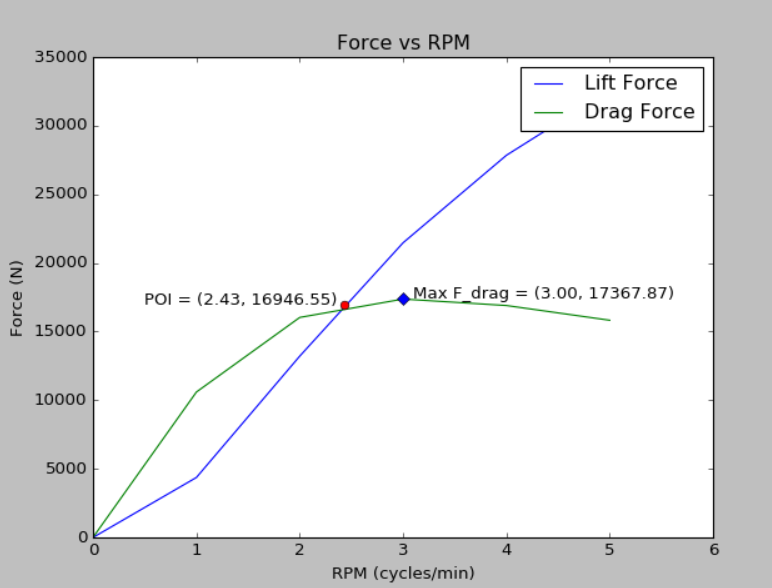
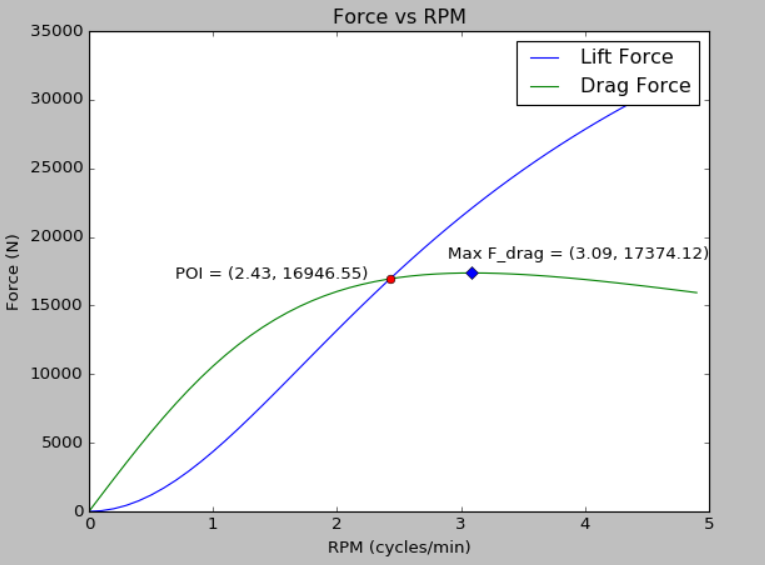
Implemented newton's method

diff --git a/main.py b/main.py
@@ -29,24 +29,41 @@ rpm_to_tan_vel = lambda rpm: tangential_vel(rpm_to_angular_vel(rpm))
 F_lift = lambda rpm: ((3 * mu_0 * m ** 2) / (32 * np.pi * z_0 ** 4)) * (1 - (w / np.sqrt(rpm_to_tan_vel(rpm) ** 2 + w ** 2)))
 F_drag = lambda rpm: (w / rpm_to_tan_vel(rpm)) * F_lift(rpm)
 
-def getPOI(f, g, x0):
-    tolerance = 0.0001
-    h = lambda x: f(x) - g(x)
-    dh = lambda x : (h(x+tolerance) - h(x)) / tolerance
-    x1 = x0 - h(x0)/dh(x0)
+
+def Newton(f, x0, tolerance, derivative=False):
+    if derivative:
+        h = lambda x: (f(x + tolerance) - f(x)) / tolerance
+    else:
+        h = f
+    dh = lambda x: (h(x + tolerance) - h(x)) / tolerance
+    x1 = x0 - h(x0) / dh(x0)
     if h(x1) > tolerance:
-        return getPOI(f, g, x1)
+        return Newton(f, x1, tolerance, derivative)
     else:
         return x1
 
 
-# Compute the x and y coordinates for points on sine and cosine curves
-x = np.arange(0.001, 30)
+def getPOI(f, g):
+    tolerance = 0.0001
+    x0 = 2
+    return Newton(lambda x: f(x) - g(x), x0, tolerance)
+
+
+def getMax(f):
+    tolerance = 0.0001
+    x0 = 3
+    return Newton(f, x0, tolerance, True)
+
+# Compute the x and y coordinates
+START = 0.001
+END = 5
+STEP = 0.1
+x = np.arange(START, END, STEP)
 F_lift_plot = F_lift(x)
 F_drag_plot = F_drag(x)
-max_drag_x = np.argmax(F_drag_plot)
+max_drag_x = getMax(F_drag)
 max_drag_y = F_drag(max_drag_x)
-POI_x = getPOI(F_lift, F_drag, 2)
+POI_x = getPOI(F_lift, F_drag)
 POI_y = F_drag(POI_x)
 
 # Plot the points using matplotlib
@@ -58,7 +75,7 @@ plt.xlabel('RPM (cycles/min)')
 plt.ylabel('Force (N)')
 plt.title('Force vs RPM')
 plt.legend(['Lift Force', 'Drag Force'])
-#plt.annotate('POI = (' + str('{0:.2f}'.format(POI_x)) + ', ' + str('{0:.2f}'.format(POI_y)) + ')', xy=(2, 1), xytext=(0.5, POI_y))
-#plt.annotate('Max F_drag = (' + str('{0:.2f}'.format(max_drag_x)) + ', ' + str('{0:.2f}'.format(max_drag_y)) + ')',
- #            xy=(2, 1), xytext=(max_drag_x + 0.1, max_drag_y))
+plt.annotate('POI = (' + str('{0:.2f}'.format(POI_x)) + ', ' + str('{0:.2f}'.format(POI_y)) + ')', xy=(2, 1), xytext=(0.7, POI_y))
+plt.annotate('Max F_drag = (' + str('{0:.2f}'.format(max_drag_x)) + ', ' + str('{0:.2f}'.format(max_drag_y)) + ')',
+             xy=(2, 1), xytext=(max_drag_x - 0.2, max_drag_y + 1000))
 plt.show()
